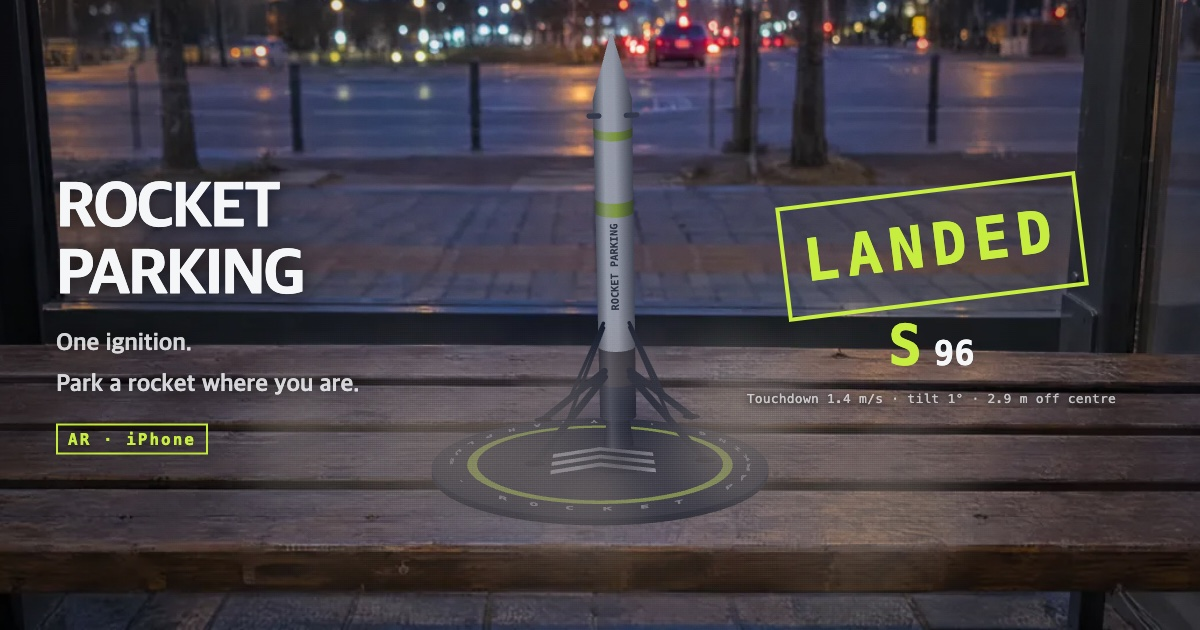
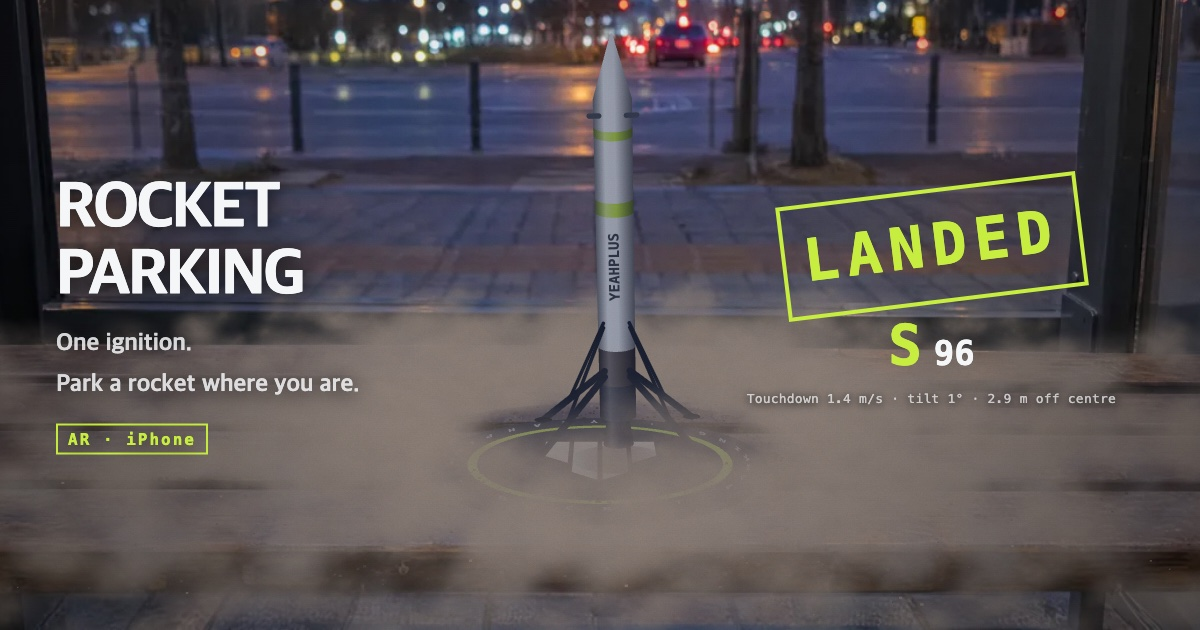
로켓주차 소개: 패드 가운데 = 주식회사 예아플러스 로고(막대 4개 방패) · 기체 글자 ROCKET PARKING → YEAHPLUS · OG 그림 다시
- 로고는 앱 Theme.swift logoBars 와 같은 격자 · 같은 크기(패드 면 1024px 중 400px = 8.2cm), 바닥에 눕혀 원근 투영

diff --git a/app/(rocketparking)/rocketparking/home/render.ts b/app/(rocketparking)/rocketparking/home/render.ts
@@ -366,6 +366,14 @@ function mug(ctx: CanvasRenderingContext2D, v: View, o: Vec3, t: number) {
 }
 
 /* ─── 패드 ─── */
+/** 주식회사 예아플러스 로고 — 1080 격자 좌표(앱 Theme.swift logoBars 와 같다) */
+const LOGO_BARS: [number, number][][] = [
+  [[310, 293], [411, 293], [411, 600], [310, 499]],
+  [[430, 293], [530, 293], [530, 819], [430, 719]],
+  [[550, 293], [650, 293], [650, 719], [550, 819]],
+  [[669, 293], [770, 293], [770, 499], [669, 600]],
+];
+
 export function drawPad(ctx: CanvasRenderingContext2D, v: View, glow = 0, ringHint: number | null = null, hintNow = false, ringR = RING_R) {
   const N = 64;
   const circ = (r: number, y = 0.0005): Vec3[] => Array.from({ length: N }, (_, i) => [Math.cos((i / N) * Math.PI * 2) * r, y, Math.sin((i / N) * Math.PI * 2) * r]);
@@ -389,11 +397,12 @@ export function drawPad(ctx: CanvasRenderingContext2D, v: View, glow = 0, ringHi
   ctx.fillStyle = LOOK.lime;
   ctx.fill('evenodd');
   ctx.restore();
-  // 가운데 셰브런(예아플러스 방패 줄 셋)
-  ctx.fillStyle = 'rgba(244,246,248,.92)';
-  for (let i = 0; i < 3; i++) {
-    const z0 = -0.024 + i * 0.017;
-    poly(ctx, v, [[-0.03, 0.0018, z0 + 0.012], [0.0, 0.0018, z0 - 0.004], [0.034, 0.0018, z0 + 0.008], [0.034, 0.0018, z0 + 0.016], [0.0, 0.0018, z0 + 0.004], [-0.03, 0.0018, z0 + 0.02]]);
+  // 가운데 주식회사 예아플러스 로고 — 막대 4개 방패(앱 Theme.swift drawLogo · drift/docs/brand/yeahplus_mark.svg 격자 그대로).
+  // 앱과 같은 크기: 패드 면 1024px 중 400px = 8.2cm. 로고 위쪽이 카메라 반대편이라 정면에서 바로 읽힌다
+  const LK = (PAD_R * 2 * (400 / 1024)) / 526;
+  ctx.fillStyle = 'rgba(237,237,237,.95)';
+  for (const bar of LOGO_BARS) {
+    poly(ctx, v, bar.map(([x, y]) => [(x - 540) * LK, 0.0018, (y - 556) * LK] as Vec3));
     ctx.fill();
   }
   // 가장자리 글자
@@ -570,7 +579,7 @@ export function drawBooster(ctx: CanvasRenderingContext2D, v: View, pose: Pose, 
   }
   // 세로 글자
   const mid = v.p(at(0.11));
-  const fs = BR * scale * mid.s * 0.55;
+  const fs = BR * scale * mid.s * 0.75; // YEAHPLUS 는 짧아서 글자를 키운다
   if (fs > 4.5) {
     ctx.save();
     ctx.translate(mid.x, mid.y);
@@ -579,7 +588,7 @@ export function drawBooster(ctx: CanvasRenderingContext2D, v: View, pose: Pose, 
     ctx.font = `800 ${fs}px ui-monospace,Menlo,monospace`;
     ctx.textAlign = 'center';
     ctx.textBaseline = 'middle';
-    ctx.fillText('ROCKET PARKING', 0, 0);
+    ctx.fillText('YEAHPLUS', 0, 0);
     ctx.restore();
   }
   legsFront.forEach((d) => d());
